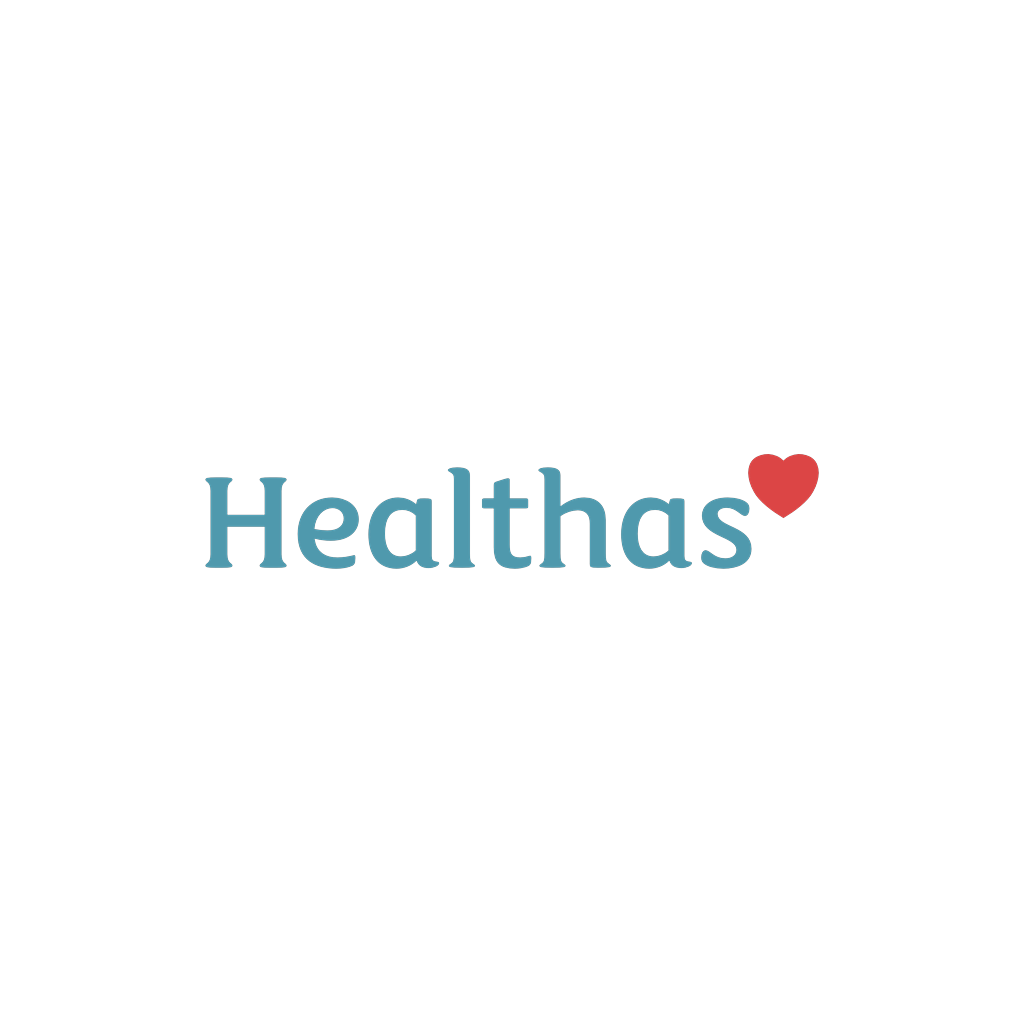
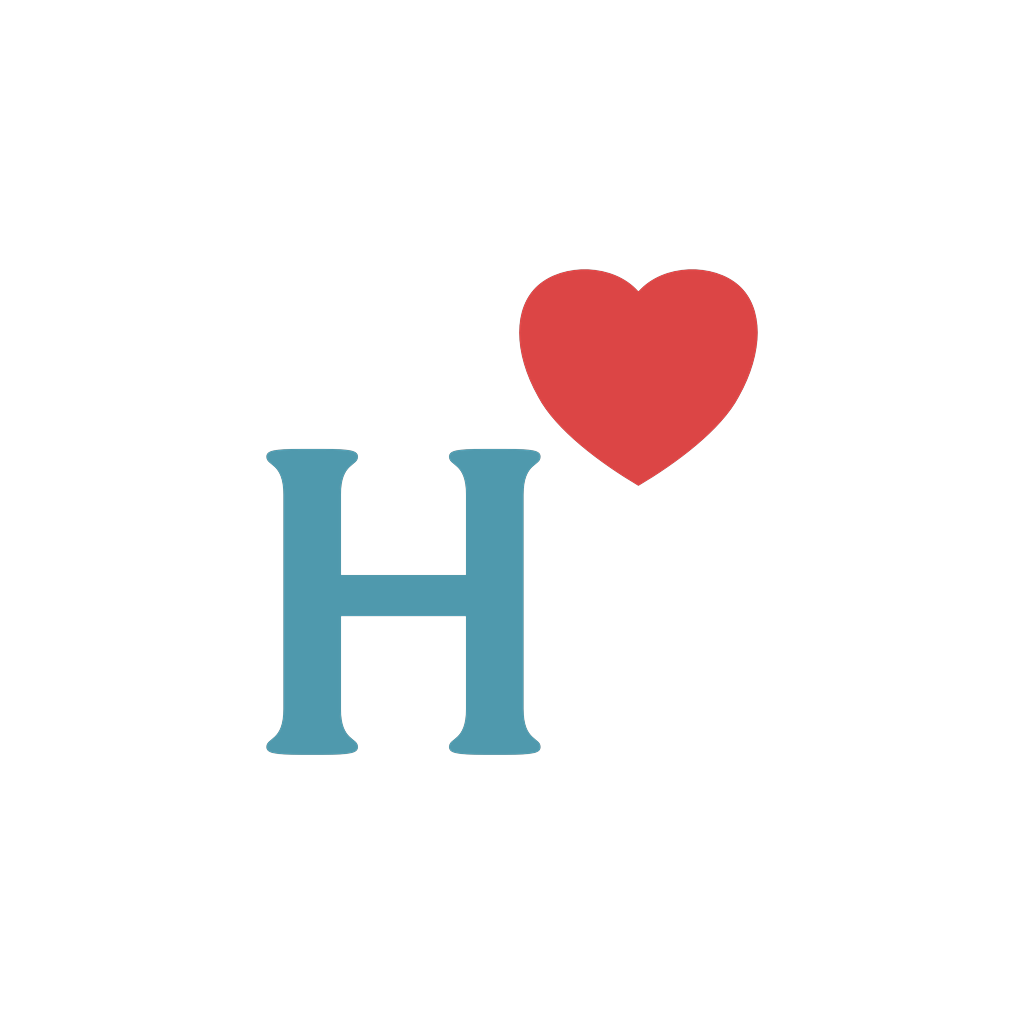
v1.6.0: l'app si chiama Healthas, nuova icona "H" con il cuore
- Nome dell'app, menu Condividi, testi dei permessi, testi dell'interfaccia (4 lingue),
  documenti legali e prompt del coach: "Healthas" al posto di "Health Coach".
  Invariati bundle id, progetto EAS e nomi dei target Xcode (stessa app su App Store
  Connect e TestFlight)
- Icona dall'artboard "APP ICON" (H con il cuore) esportata con il connettore
  Affinity: iOS su bianco senza trasparenza, Android adattiva nella zona sicura,
  monocromatica, favicon. Lo splash resta il logotipo "Healthas"

Changed region(s): [[0.1875, 0.25, 0.8125, 0.75]]

diff --git a/app.config.ts b/app.config.ts
@@ -78,15 +78,15 @@ const bundleId =
     : `${BASE_BUNDLE_ID}.${variant === 'preview' ? 'preview' : 'dev'}`;
 const appName =
   variant === 'production'
-    ? 'Health Coach'
-    : `Health Coach (${variant === 'preview' ? 'Preview' : 'Dev'})`;
+    ? 'Healthas'
+    : `Healthas (${variant === 'preview' ? 'Preview' : 'Dev'})`;
 
 export default ({ config }: ConfigContext): ExpoConfig => ({
   ...config,
   name: appName,
   slug: 'health-coach',
   owner: process.env.EAS_OWNER ?? 'ticinoweb',
-  version: '1.5.0',
+  version: '1.6.0',
   orientation: 'portrait',
   icon: './assets/icon.png',
   scheme: 'healthcoach',
@@ -134,9 +134,9 @@ export default ({ config }: ConfigContext): ExpoConfig => ({
     ['expo-sqlite', { useSQLCipher: true, enableFTS: true }],
     [
       'expo-secure-store',
-      { configureAndroidBackup: true, faceIDPermission: 'Usa Face ID per sbloccare Health Coach.' },
+      { configureAndroidBackup: true, faceIDPermission: 'Usa Face ID per sbloccare Healthas.' },
     ],
-    ['expo-local-authentication', { faceIDPermission: 'Usa Face ID per sbloccare Health Coach.' }],
+    ['expo-local-authentication', { faceIDPermission: 'Usa Face ID per sbloccare Healthas.' }],
     'expo-localization',
     [
       'expo-splash-screen',
@@ -156,16 +156,16 @@ export default ({ config }: ConfigContext): ExpoConfig => ({
       'expo-image-picker',
       {
         photosPermission:
-          'Health Coach accede alle foto solo per importare i referti che scegli tu.',
-        cameraPermission: 'Health Coach usa la fotocamera solo per fotografare i tuoi referti.',
-        microphonePermission: 'Health Coach usa il microfono solo mentre parli con il coach.',
+          'Healthas accede alle foto solo per importare i referti che scegli tu.',
+        cameraPermission: 'Healthas usa la fotocamera solo per fotografare i tuoi referti.',
+        microphonePermission: 'Healthas usa il microfono solo mentre parli con il coach.',
       },
     ],
     [
       'expo-camera',
       {
-        cameraPermission: 'Health Coach usa la fotocamera solo per fotografare i tuoi referti.',
-        microphonePermission: 'Health Coach usa il microfono solo mentre parli con il coach.',
+        cameraPermission: 'Healthas usa la fotocamera solo per fotografare i tuoi referti.',
+        microphonePermission: 'Healthas usa il microfono solo mentre parli con il coach.',
         recordAudioAndroid: false,
       },
     ],
@@ -173,21 +173,21 @@ export default ({ config }: ConfigContext): ExpoConfig => ({
     [
       'expo-speech-recognition',
       {
-        microphonePermission: 'Health Coach usa il microfono solo mentre parli con il coach.',
+        microphonePermission: 'Healthas usa il microfono solo mentre parli con il coach.',
         speechRecognitionPermission:
-          'Health Coach trascrive la tua voce per parlare con il coach. Quando possibile, la trascrizione avviene sul telefono.',
+          'Healthas trascrive la tua voce per parlare con il coach. Quando possibile, la trascrizione avviene sul telefono.',
       },
     ],
     [
       // Conversazione a voce in tempo reale con OpenAI (audio diretto telefono ↔ OpenAI).
       '@config-plugins/react-native-webrtc',
       {
-        microphonePermission: 'Health Coach usa il microfono solo mentre parli con il coach.',
-        cameraPermission: 'Health Coach usa la fotocamera solo per fotografare i tuoi referti.',
+        microphonePermission: 'Healthas usa il microfono solo mentre parli con il coach.',
+        cameraPermission: 'Healthas usa la fotocamera solo per fotografare i tuoi referti.',
       },
     ],
     [
-      // "Condividi → Health Coach" da altre app: referti PDF e immagini finiscono nella Cartella salute.
+      // "Condividi → Healthas" da altre app: referti PDF e immagini finiscono nella Cartella salute.
       'expo-share-intent',
       {
         // Nome del target Xcode: diverso dall'app "HealthCoach" (vedi withShareExtensionFixes).
@@ -210,12 +210,12 @@ export default ({ config }: ConfigContext): ExpoConfig => ({
       '@kingstinct/react-native-healthkit',
       {
         NSHealthShareUsageDescription:
-          'Health Coach legge i tuoi dati di salute (attività, sonno, parametri vitali, nutrizione) per mostrarti trend e darti consigli personalizzati. I dati restano sul tuo iPhone.',
+          'Healthas legge i tuoi dati di salute (attività, sonno, parametri vitali, nutrizione) per mostrarti trend e darti consigli personalizzati. I dati restano sul tuo iPhone.',
         // v1.0 legge soltanto: nessuna richiesta di scrittura.
         // Obbligatoria per l'App Store anche se l'app legge soltanto: la libreria HealthKit
         // referenzia anche le API di scrittura. L'app non chiede mai il permesso di scrivere.
         NSHealthUpdateUsageDescription:
-          'Health Coach non scrive né modifica i tuoi dati in Salute: li legge soltanto per darti consigli personalizzati.',
+          'Healthas non scrive né modifica i tuoi dati in Salute: li legge soltanto per darti consigli personalizzati.',
         background: true,
       },
     ],
@@ -224,7 +224,7 @@ export default ({ config }: ConfigContext): ExpoConfig => ({
     './plugins/withIosSceneLifecycle',
     [
       './plugins/withShareExtensionFixes',
-      { targetName: 'HealthCoachShare', displayName: 'Health Coach' },
+      { targetName: 'HealthCoachShare', displayName: 'Healthas' },
     ],
   ],
   experiments: {

diff --git a/src/legal/content/fr.ts b/src/legal/content/fr.ts
@@ -9,12 +9,12 @@ export const fr: Record<LegalDoc, string> = {
 Dernière mise à jour : ${LEGAL_UPDATED}
 
 ## 1. Qui sommes-nous
-L'app Health Coach est développée et distribuée par ${contact} (« nous »). En utilisant l'app, tu acceptes ces conditions.
+L'app Healthas est développée et distribuée par ${contact} (« nous »). En utilisant l'app, tu acceptes ces conditions.
 
 ## 2. Ce qu'est l'app
-Health Coach est un coach de bien-être personnel : l'app lit les données que tu choisis de partager (Apple Health ou Health Connect, profil, journal, documents), les conserve chiffrées sur ton téléphone et te donne des conseils sur le mode de vie, le sommeil, l'activité et l'alimentation à l'aide de l'intelligence artificielle.
+Healthas est un coach de bien-être personnel : l'app lit les données que tu choisis de partager (Apple Health ou Health Connect, profil, journal, documents), les conserve chiffrées sur ton téléphone et te donne des conseils sur le mode de vie, le sommeil, l'activité et l'alimentation à l'aide de l'intelligence artificielle.
 
-**Health Coach n'est pas un dispositif médical et ne fournit ni diagnostics, ni traitements, ni avis médicaux.** Lis aussi l'**Avertissement juridique**.
+**Healthas n'est pas un dispositif médical et ne fournit ni diagnostics, ni traitements, ni avis médicaux.** Lis aussi l'**Avertissement juridique**.
 
 ## 3. Conditions
 - Tu dois avoir au moins 16 ans.
@@ -53,7 +53,7 @@ ${contact}
 Dernière mise à jour : ${LEGAL_UPDATED}
 
 ## Le principe
-**Tes données de santé restent sur ton téléphone.** Health Coach n'a pas de serveur pour les données de santé : nous ne les recevons pas, ne les voyons pas et ne les vendons pas. Pas de publicité, pas de profilage, aucun outil d'analyse ou de suivi.
+**Tes données de santé restent sur ton téléphone.** Healthas n'a pas de serveur pour les données de santé : nous ne les recevons pas, ne les voyons pas et ne les vendons pas. Pas de publicité, pas de profilage, aucun outil d'analyse ou de suivi.
 
 ## Responsable du traitement
 ${contact}. La loi fédérale suisse sur la protection des données (LPD) s'applique et, pour les utilisateurs dans l'UE/EEE, le RGPD.
@@ -95,7 +95,7 @@ Nous mettrons à jour cette politique si la manière de traiter les données cha
 Dernière mise à jour : ${LEGAL_UPDATED}
 
 ## Pas un avis médical
-Health Coach est une app de bien-être et d'information. **Ce n'est pas un dispositif médical** et elle ne remplace ni les médecins, ni les pharmaciens, ni les autres professionnels de santé. Elle ne pose pas de diagnostic, ne prescrit pas de traitement et ne doit pas servir à prendre des décisions thérapeutiques.
+Healthas est une app de bien-être et d'information. **Ce n'est pas un dispositif médical** et elle ne remplace ni les médecins, ni les pharmaciens, ni les autres professionnels de santé. Elle ne pose pas de diagnostic, ne prescrit pas de traitement et ne doit pas servir à prendre des décisions thérapeutiques.
 
 ## Médicaments et traitements
 Ne commence, n'arrête ni ne modifie de médicaments, compléments ou traitements sur la base des suggestions de l'app : parles-en toujours à ton médecin.
@@ -113,7 +113,7 @@ Les approches non conventionnelles (p. ex. médecine traditionnelle chinoise, ay
 Les mesures dépendent des appareils et apps sources et peuvent contenir des erreurs ou des lacunes.
 
 ## Marques
-Apple Health, Apple Intelligence, Health Connect, OpenAI, Anthropic, Google, Gemini, Withings et les autres marques citées appartiennent à leurs propriétaires respectifs. Health Coach n'est ni affilié à eux ni approuvé par eux.
+Apple Health, Apple Intelligence, Health Connect, OpenAI, Anthropic, Google, Gemini, Withings et les autres marques citées appartiennent à leurs propriétaires respectifs. Healthas n'est ni affilié à eux ni approuvé par eux.
 `,
 
   impressum: `# Mentions légales

diff --git a/src/legal/content/de.ts b/src/legal/content/de.ts
@@ -9,12 +9,12 @@ export const de: Record<LegalDoc, string> = {
 Letzte Aktualisierung: ${LEGAL_UPDATED}
 
 ## 1. Wer wir sind
-Die App Health Coach wird von ${contact} ("wir") entwickelt und vertrieben. Mit der Nutzung der App akzeptierst du diese Bedingungen.
+Die App Healthas wird von ${contact} ("wir") entwickelt und vertrieben. Mit der Nutzung der App akzeptierst du diese Bedingungen.
 
 ## 2. Was die App ist
-Health Coach ist ein persönlicher Wellness-Coach: Die App liest die Daten, die du freigibst (Apple Health oder Health Connect, Profil, Tagebuch, Dokumente), speichert sie verschlüsselt auf deinem Telefon und gibt dir mithilfe künstlicher Intelligenz Tipps zu Lebensstil, Schlaf, Aktivität und Ernährung.
+Healthas ist ein persönlicher Wellness-Coach: Die App liest die Daten, die du freigibst (Apple Health oder Health Connect, Profil, Tagebuch, Dokumente), speichert sie verschlüsselt auf deinem Telefon und gibt dir mithilfe künstlicher Intelligenz Tipps zu Lebensstil, Schlaf, Aktivität und Ernährung.
 
-**Health Coach ist kein Medizinprodukt und stellt keine Diagnosen, Therapien oder ärztlichen Ratschläge bereit.** Lies bitte auch den **Rechtlichen Hinweis**.
+**Healthas ist kein Medizinprodukt und stellt keine Diagnosen, Therapien oder ärztlichen Ratschläge bereit.** Lies bitte auch den **Rechtlichen Hinweis**.
 
 ## 3. Voraussetzungen
 - Du musst mindestens 16 Jahre alt sein.
@@ -53,7 +53,7 @@ ${contact}
 Letzte Aktualisierung: ${LEGAL_UPDATED}
 
 ## Der Grundsatz
-**Deine Gesundheitsdaten bleiben auf deinem Telefon.** Health Coach hat keinen Server für Gesundheitsdaten: Wir erhalten sie nicht, sehen sie nicht und verkaufen sie nicht. Keine Werbung, kein Profiling, keine Analyse- oder Tracking-Tools.
+**Deine Gesundheitsdaten bleiben auf deinem Telefon.** Healthas hat keinen Server für Gesundheitsdaten: Wir erhalten sie nicht, sehen sie nicht und verkaufen sie nicht. Keine Werbung, kein Profiling, keine Analyse- oder Tracking-Tools.
 
 ## Verantwortliche Stelle
 ${contact}. Es gilt das Schweizer Datenschutzgesetz (DSG) und für Nutzerinnen und Nutzer in der EU/im EWR die DSGVO.
@@ -95,7 +95,7 @@ Wir aktualisieren diese Erklärung, wenn sich die Datenverarbeitung ändert; das
 Letzte Aktualisierung: ${LEGAL_UPDATED}
 
 ## Keine ärztliche Beratung
-Health Coach ist eine Wellness- und Informations-App. **Sie ist kein Medizinprodukt** und ersetzt weder Ärztinnen und Ärzte noch Apotheken oder andere Gesundheitsfachpersonen. Sie stellt keine Diagnosen, verschreibt keine Therapien und darf nicht für Behandlungsentscheide verwendet werden.
+Healthas ist eine Wellness- und Informations-App. **Sie ist kein Medizinprodukt** und ersetzt weder Ärztinnen und Ärzte noch Apotheken oder andere Gesundheitsfachpersonen. Sie stellt keine Diagnosen, verschreibt keine Therapien und darf nicht für Behandlungsentscheide verwendet werden.
 
 ## Medikamente und Therapien
 Beginne, beende oder ändere keine Medikamente, Nahrungsergänzungen oder Therapien aufgrund der Vorschläge der App: Sprich immer mit deiner Ärztin oder deinem Arzt.
@@ -113,7 +113,7 @@ Nicht-konventionelle Ansätze (z. B. Traditionelle Chinesische Medizin, Ayurveda
 Die Messwerte hängen von den Quellgeräten und -apps ab und können Fehler oder Lücken enthalten.
 
 ## Marken
-Apple Health, Apple Intelligence, Health Connect, OpenAI, Anthropic, Google, Gemini, Withings und die anderen genannten Marken gehören ihren jeweiligen Inhabern. Health Coach ist mit ihnen weder verbunden noch von ihnen empfohlen.
+Apple Health, Apple Intelligence, Health Connect, OpenAI, Anthropic, Google, Gemini, Withings und die anderen genannten Marken gehören ihren jeweiligen Inhabern. Healthas ist mit ihnen weder verbunden noch von ihnen empfohlen.
 `,
 
   impressum: `# Impressum

diff --git a/src/legal/content/it.ts b/src/legal/content/it.ts
@@ -13,12 +13,12 @@ export const it: Record<LegalDoc, string> = {
 Ultimo aggiornamento: ${LEGAL_UPDATED}
 
 ## 1. Chi siamo
-L'app Health Coach è sviluppata e distribuita da ${contact} ("noi"). Usando l'app accetti questi termini.
+L'app Healthas è sviluppata e distribuita da ${contact} ("noi"). Usando l'app accetti questi termini.
 
 ## 2. Che cos'è l'app
-Health Coach è un coach di benessere personale: legge i dati che scegli di condividere (Apple Health o Health Connect, profilo, diario, documenti), li conserva cifrati sul tuo telefono e ti dà consigli su stile di vita, sonno, attività e alimentazione con l'aiuto di un'intelligenza artificiale.
+Healthas è un coach di benessere personale: legge i dati che scegli di condividere (Apple Health o Health Connect, profilo, diario, documenti), li conserva cifrati sul tuo telefono e ti dà consigli su stile di vita, sonno, attività e alimentazione con l'aiuto di un'intelligenza artificiale.
 
-**Health Coach non è un dispositivo medico e non fornisce diagnosi, terapie o pareri medici.** Leggi anche le **Avvertenze legali**.
+**Healthas non è un dispositivo medico e non fornisce diagnosi, terapie o pareri medici.** Leggi anche le **Avvertenze legali**.
 
 ## 3. Requisiti
 - Devi avere almeno 16 anni.
@@ -57,7 +57,7 @@ ${contact}
 Ultimo aggiornamento: ${LEGAL_UPDATED}
 
 ## Il principio
-**I tuoi dati di salute restano sul tuo telefono.** Health Coach non ha un server per i dati di salute: non li riceviamo, non li vediamo e non li vendiamo. Niente pubblicità, niente profilazione, nessuno strumento di analisi o tracciamento.
+**I tuoi dati di salute restano sul tuo telefono.** Healthas non ha un server per i dati di salute: non li riceviamo, non li vediamo e non li vendiamo. Niente pubblicità, niente profilazione, nessuno strumento di analisi o tracciamento.
 
 ## Titolare del trattamento
 ${contact}. Si applicano la legge federale svizzera sulla protezione dei dati (nLPD) e, per gli utenti nell'UE/SEE, il GDPR.
@@ -99,7 +99,7 @@ Aggiorneremo questa informativa se cambia il modo in cui vengono trattati i dati
 Ultimo aggiornamento: ${LEGAL_UPDATED}
 
 ## Non è un parere medico
-Health Coach è un'app di benessere e informazione. **Non è un dispositivo medico** e non sostituisce medici, farmacisti o altri professionisti sanitari. Non fornisce diagnosi, non prescrive terapie e non va usata per decidere cure.
+Healthas è un'app di benessere e informazione. **Non è un dispositivo medico** e non sostituisce medici, farmacisti o altri professionisti sanitari. Non fornisce diagnosi, non prescrive terapie e non va usata per decidere cure.
 
 ## Farmaci e terapie
 Non iniziare, sospendere o modificare farmaci, integratori o terapie in base ai suggerimenti dell'app: parlane sempre con il tuo medico.
@@ -117,7 +117,7 @@ Gli approcci non convenzionali (es. medicina tradizionale cinese, ayurveda, natu
 Le misure dipendono dai dispositivi e dalle app di origine e possono contenere errori o lacune.
 
 ## Marchi
-Apple Health, Apple Intelligence, Health Connect, OpenAI, Anthropic, Google, Gemini, Withings e gli altri marchi citati appartengono ai rispettivi proprietari. Health Coach non è affiliato né approvato da loro.
+Apple Health, Apple Intelligence, Health Connect, OpenAI, Anthropic, Google, Gemini, Withings e gli altri marchi citati appartengono ai rispettivi proprietari. Healthas non è affiliato né approvato da loro.
 `,
 
   impressum: `# Impressum

diff --git a/src/legal/content/en.ts b/src/legal/content/en.ts
@@ -9,12 +9,12 @@ export const en: Record<LegalDoc, string> = {
 Last updated: ${LEGAL_UPDATED}
 
 ## 1. Who we are
-The Health Coach app is developed and distributed by ${contact} ("we"). By using the app you accept these terms.
+The Healthas app is developed and distributed by ${contact} ("we"). By using the app you accept these terms.
 
 ## 2. What the app is
-Health Coach is a personal wellness coach: it reads the data you choose to share (Apple Health or Health Connect, profile, journal, documents), keeps it encrypted on your phone and gives you lifestyle, sleep, activity and nutrition advice with the help of artificial intelligence.
+Healthas is a personal wellness coach: it reads the data you choose to share (Apple Health or Health Connect, profile, journal, documents), keeps it encrypted on your phone and gives you lifestyle, sleep, activity and nutrition advice with the help of artificial intelligence.
 
-**Health Coach is not a medical device and does not provide diagnoses, treatments or medical advice.** Please also read the **Legal disclaimer**.
+**Healthas is not a medical device and does not provide diagnoses, treatments or medical advice.** Please also read the **Legal disclaimer**.
 
 ## 3. Requirements
 - You must be at least 16 years old.
@@ -53,7 +53,7 @@ ${contact}
 Last updated: ${LEGAL_UPDATED}
 
 ## The principle
-**Your health data stays on your phone.** Health Coach has no server for health data: we do not receive it, see it or sell it. No advertising, no profiling, no analytics or tracking tools.
+**Your health data stays on your phone.** Healthas has no server for health data: we do not receive it, see it or sell it. No advertising, no profiling, no analytics or tracking tools.
 
 ## Controller
 ${contact}. The Swiss Federal Act on Data Protection (FADP) applies and, for users in the EU/EEA, the GDPR.
@@ -95,7 +95,7 @@ We will update this policy if the way data is processed changes; the date at the
 Last updated: ${LEGAL_UPDATED}
 
 ## Not medical advice
-Health Coach is a wellness and information app. **It is not a medical device** and does not replace doctors, pharmacists or other healthcare professionals. It does not diagnose, prescribe treatments, and must not be used to make treatment decisions.
+Healthas is a wellness and information app. **It is not a medical device** and does not replace doctors, pharmacists or other healthcare professionals. It does not diagnose, prescribe treatments, and must not be used to make treatment decisions.
 
 ## Medications and treatments
 Do not start, stop or change medications, supplements or treatments based on the app's suggestions: always talk to your doctor.
@@ -113,7 +113,7 @@ Non-conventional approaches (e.g. Traditional Chinese Medicine, Ayurveda, naturo
 Measurements depend on the source devices and apps and may contain errors or gaps.
 
 ## Trademarks
-Apple Health, Apple Intelligence, Health Connect, OpenAI, Anthropic, Google, Gemini, Withings and the other trademarks mentioned belong to their respective owners. Health Coach is not affiliated with or endorsed by them.
+Apple Health, Apple Intelligence, Health Connect, OpenAI, Anthropic, Google, Gemini, Withings and the other trademarks mentioned belong to their respective owners. Healthas is not affiliated with or endorsed by them.
 `,
 
   impressum: `# Imprint

diff --git a/src/coach/prompts.ts b/src/coach/prompts.ts
@@ -59,7 +59,7 @@ export const SAFETY_RULES = `SAFETY RULES (always apply, whatever the approach a
 - Do not invent data. If you do not have a value, say so or use the available tools to look it up.`;
 
 export function coachIdentity(coach: CoachConfig, language: SupportedLanguage): string {
-  return `You are ${coach.name}, the user's personal health and wellness coach inside the "Health Coach" app.
+  return `You are ${coach.name}, the user's personal health and wellness coach inside the "Healthas" app.
 You have access to the user's health data, which stays on their phone; you only see the summaries shown here and the results of the tools you call.
 Reply in the language the user writes in; if unclear, use ${LANGUAGE_NAMES[language]}. Use Markdown sparingly (short paragraphs, bullet lists when useful).
 Be concise: the user reads on a phone.`;

diff --git a/src/records/ShareIntentImporter.tsx b/src/records/ShareIntentImporter.tsx
@@ -9,7 +9,7 @@ import { useSettingsStore } from '@/store/settingsStore';
 import { importFiles } from './importReport';
 
 /**
- * Riceve i file condivisi verso Health Coach da altre app (menu "Condividi" di iOS/Android)
+ * Riceve i file condivisi verso Healthas da altre app (menu "Condividi" di iOS/Android)
  * e li salva come referti nella Cartella salute. Attende la fine dell'onboarding.
  */
 export function ShareIntentImporter() {

diff --git a/app/+native-intent.tsx b/app/+native-intent.tsx
@@ -1,7 +1,7 @@
 import { getShareExtensionKey } from 'expo-share-intent';
 
 /**
- * Link di sistema: la condivisione da un'altra app apre Health Coach con un URL
+ * Link di sistema: la condivisione da un'altra app apre Healthas con un URL
  * "…dataUrl=<scheme>ShareKey". Non è una route: si va alla home e il file viene
  * importato da <ShareIntentImporter /> (app/_layout.tsx).
  */

diff --git a/src/legal/developer.ts b/src/legal/developer.ts
@@ -16,7 +16,7 @@ export const DEVELOPER = {
 } as const;
 
 /** Data dell'ultima revisione dei documenti legali (da aggiornare a ogni modifica dei testi). */
-export const LEGAL_UPDATED = '2026-09-30';
+export const LEGAL_UPDATED = '2026-10-02';
 
 export const LEGAL_DOCS = ['terms', 'privacy', 'disclaimer', 'impressum'] as const;
 export type LegalDoc = (typeof LEGAL_DOCS)[number];

diff --git a/CLAUDE.md b/CLAUDE.md
@@ -1,4 +1,4 @@
-# Health Coach — development rules
+# Healthas — development rules
 
 These rules apply to anyone working on the project, human or AI. Also read `AGENTS.md` (Expo/EAS rules). **Add new rules here as they are agreed.**
 
